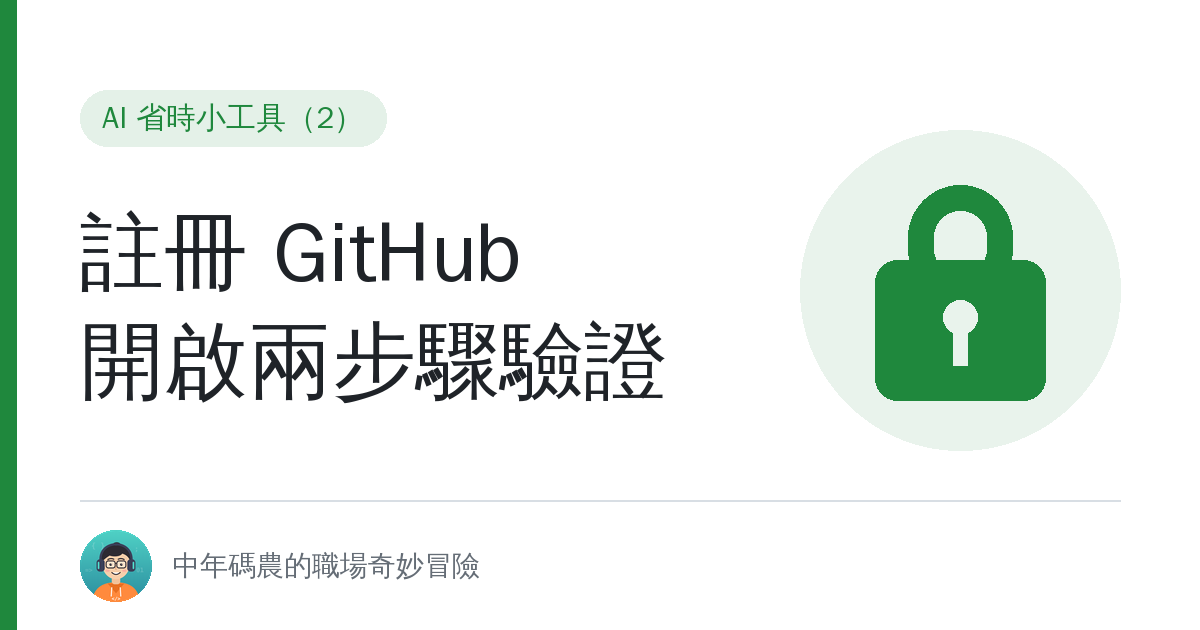
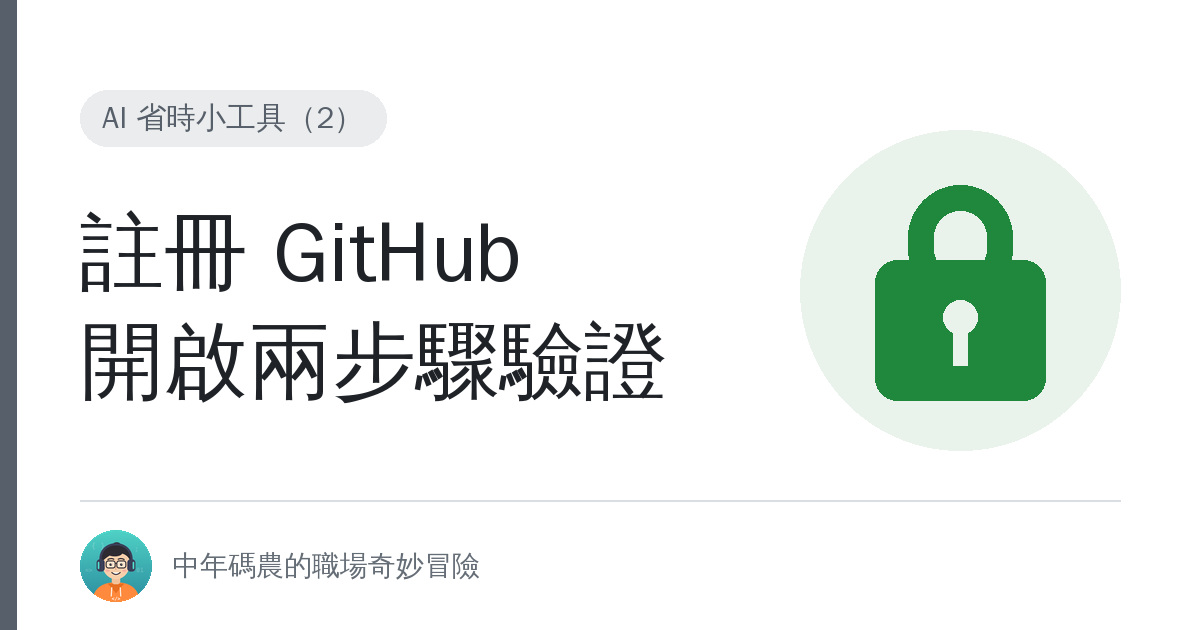
GitHub 教學：封面改為灰色標籤、只留綠色圖示
Claude-Session: https://claude.ai/code/session_01WPuEZqV4FQ9DDbdFtRJi5r

Changed region(s): [[0.0, 0.0, 0.0308, 1.0], [0.0925, 0.1508, 0.2775, 0.2111]]

diff --git a/scripts/make_cover.py b/scripts/make_cover.py
@@ -59,13 +59,14 @@ def main():
     p.add_argument("--gradient", action="store_true", help="圖示帶由上往下的白色漸層")
     p.add_argument("--gray-circle", action="store_true", help="圖示背後的圓用淺灰，不用主色")
     p.add_argument("--no-bar", action="store_true", help="不畫左側色條")
+    p.add_argument("--font", default=FONT, help="標題與標籤的字型檔路徑")
     p.add_argument("--out", required=True)
     a = p.parse_args()
     c = hex2rgb(a.color)
 
     img = Image.new("RGB", (W, H), "white")
     d = ImageDraw.Draw(img)
-    f = lambda s: ImageFont.truetype(FONT, s)
+    f = lambda s: ImageFont.truetype(a.font, s)
 
     # 左側主色條
     if not a.no_bar:

diff --git a/.claude/skills/tutorial-draft/SKILL.md b/.claude/skills/tutorial-draft/SKILL.md
@@ -105,10 +105,10 @@ topics = ['<系列名>']
 
 ```bash
 python3 scripts/make_cover.py --num 2 --title "註冊 GitHub" --title "開啟兩步驟驗證" \
-  --color 1f883d --icon lock --out content/posts/ai-tools/github-signup-2fa/feature.png
+  --color 57606a --icon-color 1f883d --icon lock --out content/posts/ai-tools/github-signup-2fa/feature.png
 ```
 
-主色取該篇主角工具的品牌色；圖示可用 `--icon-color` 另外指定顏色，`--gradient`、`--gray-circle`、`--no-bar` 可調整樣式；新圖示加在腳本的 `ICONS`。
+系列標籤與色條固定用灰色 `57606a`，圖示用該篇主角工具的品牌色；圖示可用 `--icon-color` 另外指定顏色，`--gradient`、`--gray-circle`、`--no-bar` 可調整樣式；新圖示加在腳本的 `ICONS`。
 
 ---
 
